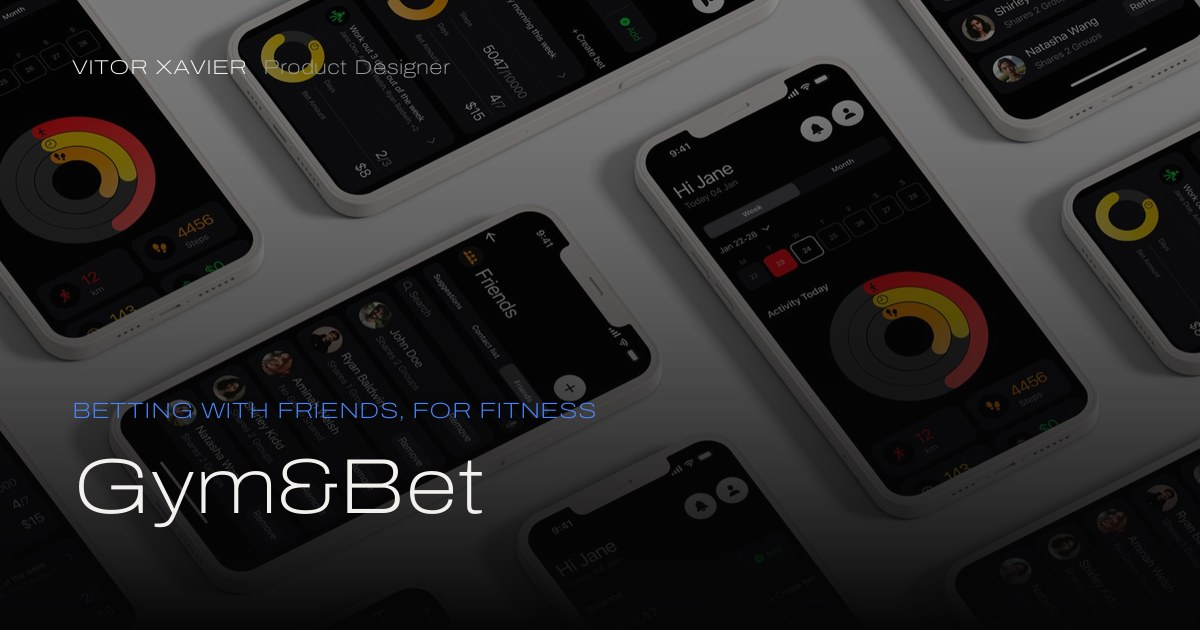
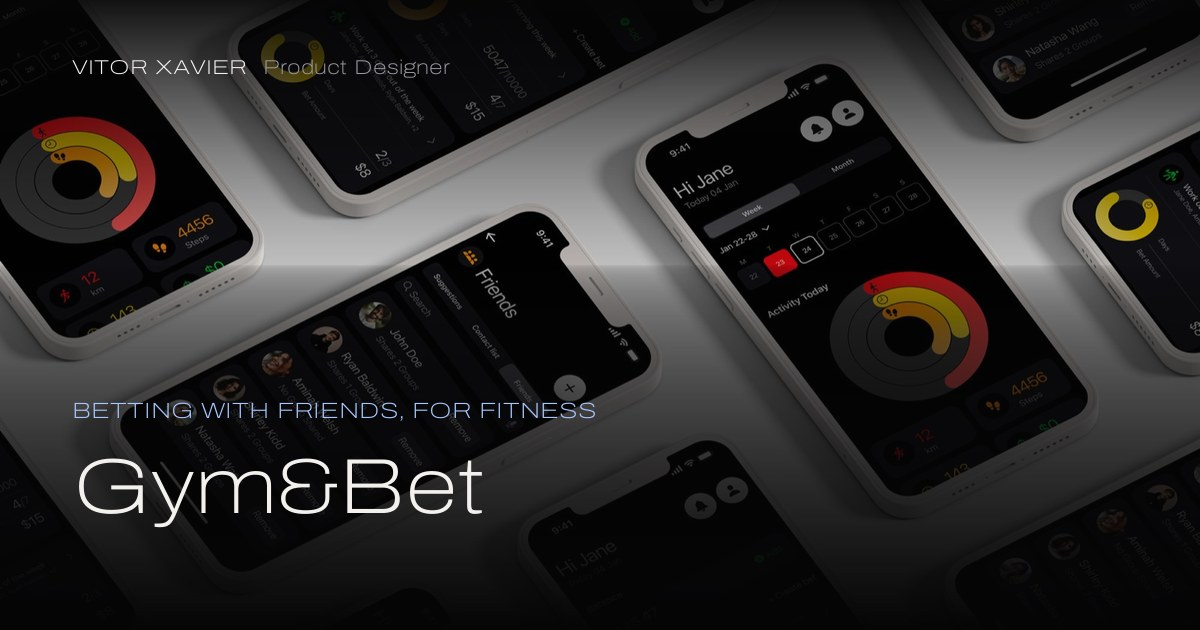
Strengthen the share-card scrim so type reads on light images
The first cards assumed a dark subject. Measured against the actual
background, text on the bright heroes was far under AA — the wordmark
sat at 1.30:1 on WCAG Study and Digital Signage, 1.35:1 on Careers
Page and Element Dashboard, and failed on all eight including the
rocket.

The scrim now darkens both ends — where the wordmark and the title
sit — and stays open through the middle so the image still reads. The
kicker moves from --accent to --accent-2, since #4A86FF is too dark
for 22px caps on anything but a black background.

Measured on the background before the text is drawn (the first pass
sampled the finished card, so the brightest pixel it found was the
white text itself):

  wordmark  6.01 - 11.49:1
  kicker    4.71 -  7.71:1
  title     9.61 - 14.27:1

Keeps the generator as tools-make-og-cards.py so the cards can be
rebuilt when a hero changes.

diff --git a/tools-make-og-cards.py b/tools-make-og-cards.py
@@ -1,0 +1,58 @@
+from PIL import Image, ImageDraw, ImageFont
+import os
+F='/private/tmp/claude-501/-Users-vitorx--Documents-claude-portfolio-v2/db5d530b-4c73-43d0-b1d2-f143ef76b6ee/scratchpad/fonts/Archivo.ttf'
+W,H=1200,630; BG=(5,5,6); FG=(242,241,238); GREY=(154,154,162); KICK=(168,199,255)
+def curve(t):
+    if t<0.42: return 40+200*(1-t/0.42)**1.2
+    return 40+215*(((t-0.42)/0.58)**0.42)
+def build(img,focus):
+    src=Image.open(img).convert('RGB'); s=max(W/src.width,H/src.height)
+    r=src.resize((round(src.width*s),round(src.height*s)),Image.LANCZOS)
+    x=(r.width-W)//2; y=int((r.height-H)*focus)
+    c=r.crop((x,y,x+W,y+H))
+    m=Image.new('L',(W,H)); d=ImageDraw.Draw(m)
+    for i in range(H): d.line([(0,i),(W,i)],fill=int(curve(i/H)))
+    return Image.composite(Image.new('RGB',(W,H),BG),c,m)
+def card(out,title,kicker,img,focus):
+    c=build(img,focus); d=ImageDraw.Draw(c)
+    kf=ImageFont.truetype(F,22); kf.set_variation_by_axes([100,600])
+    d.text((72,H-232),kicker.upper(),font=kf,fill=KICK)
+    tf=ImageFont.truetype(F,78 if len(title)<26 else 62); tf.set_variation_by_axes([112,700])
+    words=title.split(); lines=[]; cur=''
+    for w in words:
+        t=(cur+' '+w).strip()
+        if d.textlength(t,font=tf)>W-144 and cur: lines.append(cur); cur=w
+        else: cur=t
+    lines.append(cur); yy=H-186
+    for ln in lines: d.text((72,yy),ln,font=tf,fill=FG); yy+=tf.size*1.02
+    wf=ImageFont.truetype(F,20); wf.set_variation_by_axes([118,700])
+    d.text((72,56),'VITOR XAVIER',font=wf,fill=FG)
+    mf=ImageFont.truetype(F,20); mf.set_variation_by_axes([100,400])
+    d.text((72+d.textlength('VITOR XAVIER',font=wf)+16,56),'Product Designer',font=mf,fill=GREY)
+    c.save(out,quality=88,optimize=True)
+CARDS=[('index','Let’s skyrocket your company.','Senior Product Designer','assets/rocket-still.jpg',.30),
+ ('muni','MUNI','Digital signage for SF transit','assets/projects/muni/thumbnail.jpg',.40),
+ ('careers-page','Careers Page','Creator marketplace, hiring','assets/projects/starbasis/hero-desk.jpg',.5),
+ ('wcag-study','WCAG Study','Accessibility audit & redesign','assets/projects/wcag/hero.jpg',.5),
+ ('creatorhub','CreatorHub','Marketplace, built to be trusted','assets/projects/creatorhub/hero-desk.jpg',.5),
+ ('element-dashboard','Element Dashboard','Dashboard redesign','assets/projects/dashboard/hero-desk.jpg',.5),
+ ('digital-signage','Digital Signage Interfaces','40+ responsive apps','assets/projects/signage/hero.jpg',.5),
+ ('gym-and-bet','Gym&Bet','Betting with friends, for fitness','assets/projects/gymbet/hero.jpg',.45)]
+if __name__=='__main__':
+    for s,t,k,i,f in CARDS: card(f'assets/og/{s}.jpg',t,k,i,f)
+    def lin(c):
+        c/=255
+        return c/12.92 if c<=0.03928 else ((c+0.055)/1.055)**2.4
+    def L(p): return .2126*lin(p[0])+.7152*lin(p[1])+.0722*lin(p[2])
+    def ratio(a,b):
+        x,y=L(a),L(b); return (max(x,y)+.05)/(min(x,y)+.05)
+    print(f"  {'card':<22}{'wordmark':<11}{'kicker':<10}{'title':<10}{'KB':<6}")
+    fails=[]
+    for s,t,k,i,f in CARDS:
+        b=build(i,f)
+        w=ratio(FG,max(b.crop((72,52,560,84)).getdata(),key=L))
+        kk=ratio(KICK,max(b.crop((72,H-234,900,H-206)).getdata(),key=L))
+        tt=ratio(FG,max(b.crop((72,H-188,1128,H-94)).getdata(),key=L))
+        if min(w,kk,tt)<4.5: fails.append((s,round(min(w,kk,tt),2)))
+        print(f"  {s:<22}{w:<11.2f}{kk:<10.2f}{tt:<10.2f}{os.path.getsize(f'assets/og/{s}.jpg')//1024:<6}")
+    print(f"\n  below 4.5:1: {fails or 'none — all three zones pass on all eight cards'}")
